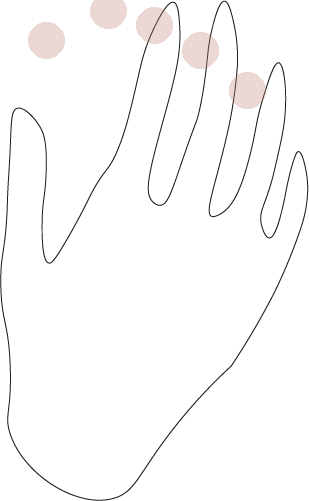
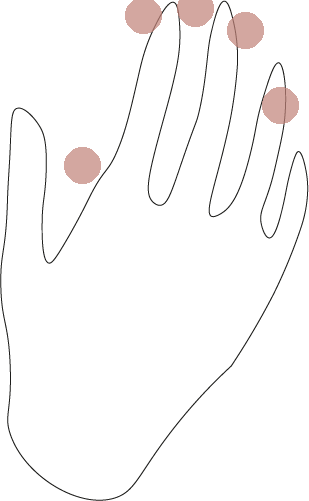
Zone images baked in: 5 distinct dots on hand-open fingertips
Instead of CSS overlay positioning (which put dots on a flat outline),
use pre-drawn images with zones painted directly by Python PIL:

- training-pressure2.png uses hand-open.png (5 separate fingers) with
  5 dots positioned on each actual fingertip (thumb + 4 fingers)
- training-pressure / pressure3 / rotation / relaxation all use
  pre-drawn zones via PIL
- Simplified ZoneHand component: just renders the image

Ensures dots are truly on fingertips, not aligned on a flat curve.

diff --git a/src/components/screens/ExerciseScreen.tsx b/src/components/screens/ExerciseScreen.tsx
@@ -5,65 +5,27 @@ import { motion } from "framer-motion";
 import { ScreenWrapper, TimerDisplay, PillButton } from "@/components/ui";
 import type { GripType, ExerciseLevel } from "@/types";
 
-// Zone overlay styles for each exercise (position on hand-outline.png)
-type ZoneStyle = { shape: "rect" | "circle" | "dots"; top?: string; left?: string; right?: string; bottom?: string; width: string; height: string };
-
-// Exercises per grip type with zone indicators
-const GRIP_EXERCISES: Record<GripType, { img: string; titleFr: string; titleEn: string; descFr: string; descEn: string; zone: ZoneStyle }[]> = {
+// Each exercise has a pre-drawn zone image (hand with pink zone baked in)
+const GRIP_EXERCISES: Record<GripType, { img: string; zoneImg: string; titleFr: string; titleEn: string; descFr: string; descEn: string }[]> = {
   pressure: [
-    // Pression 1 (page 9): zone from thumb to middle finger = right side of palm
-    { img: "/ex-pression1.png", titleFr: "Pression 1", titleEn: "Pressure 1", descFr: "Serrez la pince avec tous les doigts", descEn: "Squeeze the grip with all fingers",
-      zone: { shape: "rect", bottom: "18%", right: "5%", width: "55%", height: "30%" } },
-    // Pression 2 (page 10): dots on each fingertip
-    { img: "/ex-pression2.png", titleFr: "Pression 2", titleEn: "Pressure 2", descFr: "Appuyez sur les embouts de la pince", descEn: "Press on the grip tips",
-      zone: { shape: "dots", top: "0%", left: "0%", width: "100%", height: "100%" } },
-    // Pression 3 (page 8): zone from pinky to middle finger = upper right side
-    { img: "/ex-pression3.png", titleFr: "Pression 3", titleEn: "Pressure 3", descFr: "Pressez la pince à pleine main", descEn: "Full hand pressure on the grip",
-      zone: { shape: "rect", top: "22%", left: "62%", width: "38%", height: "32%" } },
+    { img: "/ex-pression1.png", zoneImg: "/training-pressure.png",  titleFr: "Pression 1", titleEn: "Pressure 1", descFr: "Serrez la pince avec tous les doigts", descEn: "Squeeze the grip with all fingers" },
+    { img: "/ex-pression2.png", zoneImg: "/training-pressure2.png", titleFr: "Pression 2", titleEn: "Pressure 2", descFr: "Appuyez sur les embouts de la pince", descEn: "Press on the grip tips" },
+    { img: "/ex-pression3.png", zoneImg: "/training-pressure3.png", titleFr: "Pression 3", titleEn: "Pressure 3", descFr: "Pressez la pince à pleine main", descEn: "Full hand pressure on the grip" },
   ],
   rotation: [
-    // Rotation 1 (page 11): circle under thumb
-    { img: "/ex-rotation1.png", titleFr: "Rotation 1", titleEn: "Rotation 1", descFr: "Tournez la pince entre le pouce et l'index", descEn: "Rotate the grip between thumb and index",
-      zone: { shape: "circle", top: "10%", left: "3%", width: "35%", height: "35%" } },
-    // Rotation 2: same zone under thumb
-    { img: "/ex-rotation2.png", titleFr: "Rotation 2", titleEn: "Rotation 2", descFr: "Faites pivoter la pince dans la paume", descEn: "Pivot the grip in your palm",
-      zone: { shape: "circle", top: "10%", left: "3%", width: "35%", height: "35%" } },
+    { img: "/ex-rotation1.png", zoneImg: "/training-rotation.png", titleFr: "Rotation 1", titleEn: "Rotation 1", descFr: "Tournez la pince entre le pouce et l'index", descEn: "Rotate the grip between thumb and index" },
+    { img: "/ex-rotation2.png", zoneImg: "/training-rotation.png", titleFr: "Rotation 2", titleEn: "Rotation 2", descFr: "Faites pivoter la pince dans la paume", descEn: "Pivot the grip in your palm" },
   ],
   relaxation: [
-    // Détente (page 14): palm to palm with big pink oval
-    { img: "/palm-to-palm.png", titleFr: "Détente", titleEn: "Relaxation", descFr: "Paume contre paume, détendez vos mains", descEn: "Palm to palm, relax your hands",
-      zone: { shape: "circle", top: "25%", left: "15%", width: "65%", height: "45%" } },
+    { img: "/ex-relaxation.png", zoneImg: "/training-relaxation.png", titleFr: "Détente", titleEn: "Relaxation", descFr: "Paume contre paume, détendez vos mains", descEn: "Palm to palm, relax your hands" },
   ],
 };
 
-// Zone hand component: hand-outline (411x351, ratio 1.17) with pink overlay
-// Wrapper uses aspect-ratio to match image exactly so % positions align
-function ZoneHand({ zone, size = 120 }: { zone: ZoneStyle; size?: number }) {
+// Zone hand component: shows pre-drawn training image with zone baked in
+function ZoneHand({ src, size = 120 }: { src: string; size?: number }) {
   return (
-    <div className="relative" style={{ width: size, aspectRatio: "411 / 351" }}>
-      {/* eslint-disable-next-line @next/next/no-img-element */}
-      <img src="/hand-outline.png" alt="" style={{ width: "100%", height: "100%", objectFit: "fill" }} />
-      {zone.shape === "rect" && (
-        <div className="absolute rounded-2xl bg-[rgba(192,130,120,0.4)]" style={{ top: zone.top, left: zone.left, right: zone.right, bottom: zone.bottom, width: zone.width, height: zone.height }} />
-      )}
-      {zone.shape === "circle" && (
-        <div className="absolute rounded-full bg-[rgba(192,130,120,0.4)]" style={{ top: zone.top, left: zone.left, right: zone.right, bottom: zone.bottom, width: zone.width, height: zone.height }} />
-      )}
-      {zone.shape === "dots" && (
-        <>
-          {/* Thumb tip - peak at (50%, 0%) */}
-          <div className="absolute rounded-full bg-[rgba(192,130,120,0.65)]" style={{ top: "-5%", left: "44%", width: "12%", aspectRatio: "1" }} />
-          {/* Index fingertip - contour at (62%, 30%) */}
-          <div className="absolute rounded-full bg-[rgba(192,130,120,0.65)]" style={{ top: "24%", left: "56%", width: "12%", aspectRatio: "1" }} />
-          {/* Middle fingertip - contour at (74%, 27%) */}
-          <div className="absolute rounded-full bg-[rgba(192,130,120,0.65)]" style={{ top: "21%", left: "68%", width: "12%", aspectRatio: "1" }} />
-          {/* Ring fingertip - contour at (84%, 25%) */}
-          <div className="absolute rounded-full bg-[rgba(192,130,120,0.65)]" style={{ top: "19%", left: "78%", width: "12%", aspectRatio: "1" }} />
-          {/* Pinky fingertip - contour at (91%, 26%) */}
-          <div className="absolute rounded-full bg-[rgba(192,130,120,0.65)]" style={{ top: "20%", left: "86%", width: "12%", aspectRatio: "1" }} />
-        </>
-      )}
-    </div>
+    // eslint-disable-next-line @next/next/no-img-element
+    <img src={src} alt="training zone" style={{ width: size, height: "auto", objectFit: "contain" }} />
   );
 }
 
@@ -161,7 +123,7 @@ export function ExerciseScreen({
         <div className="bg-[rgba(226,192,184,0.5)] rounded-3xl p-6 w-full max-w-sm flex flex-col items-center animate-fadeIn">
           <h2 className="text-2xl font-bold text-[#7A4A3F] mb-6">{t.training}</h2>
           {/* Hand with pink training zone — uses first exercise's zone */}
-          <ZoneHand zone={exercises[0].zone} size={180} />
+          <ZoneHand src={exercises[0].zoneImg} size={180} />
           <div className="flex items-center gap-2 mt-6">
             <div className="w-3 h-3 rounded-full bg-[rgba(122,74,63,0.2)]" />
             <div className="w-16 h-16 rounded-full bg-[rgba(122,74,63,0.15)] flex items-center justify-center">
@@ -195,7 +157,7 @@ export function ExerciseScreen({
             <>
               {/* eslint-disable-next-line @next/next/no-img-element */}
               <img src={nextExercise.img} alt="next exercise" width={160} height={100} style={{ objectFit: "contain", opacity: 0.7 }} />
-              <ZoneHand zone={nextExercise.zone} size={80} />
+              <ZoneHand src={nextExercise.zoneImg} size={100} />
               <p className="text-xs text-[#7A4A3F] opacity-40 mt-2">
                 {lang === "fr" ? `Prochain : ${nextExercise.titleFr}` : `Next: ${nextExercise.titleEn}`}
               </p>
@@ -244,7 +206,7 @@ export function ExerciseScreen({
 
         {/* Zone indicator: hand with pink overlay showing target area */}
         <div className="mt-3">
-          <ZoneHand zone={currentExercise.zone} size={100} />
+          <ZoneHand src={currentExercise.zoneImg} size={120} />
         </div>
 
         <p className="text-sm text-[#7A4A3F] opacity-60 mt-2 text-center px-4">
